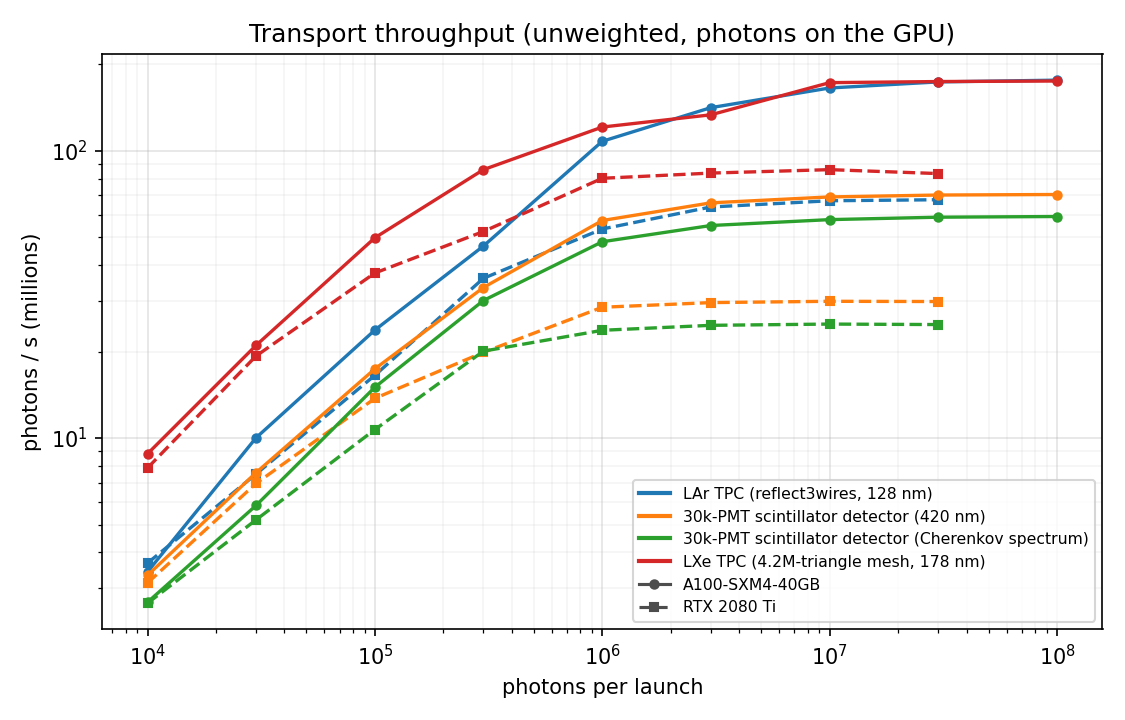
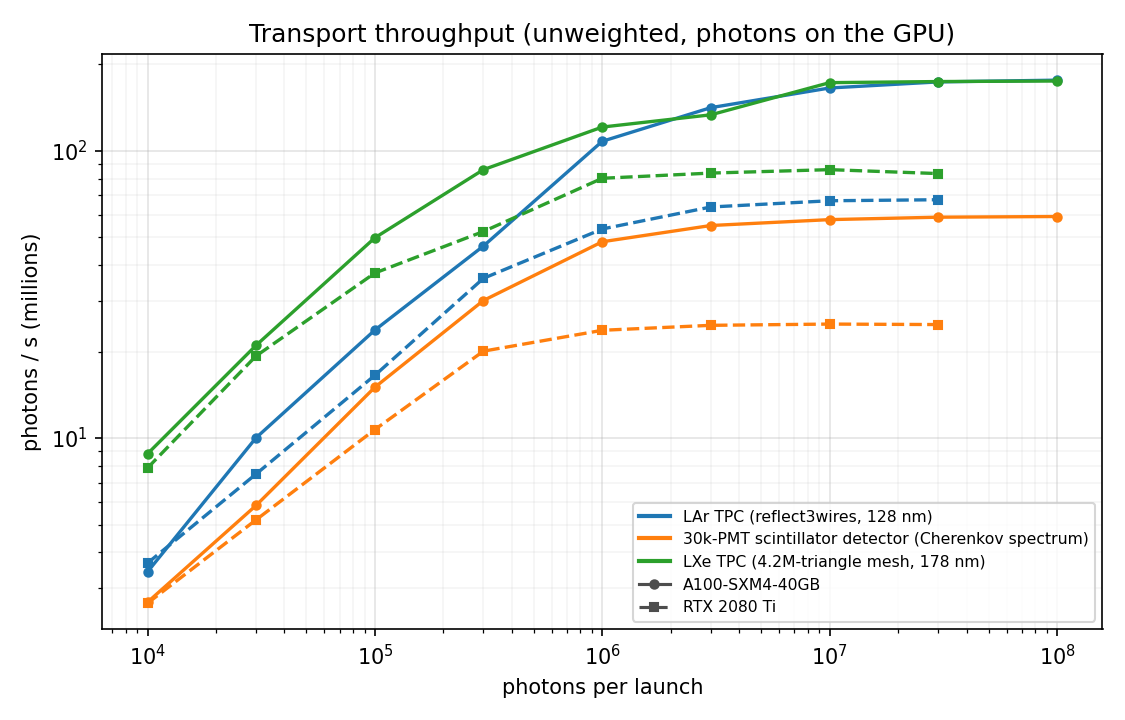
README: show the 30k-PMT detector with the Cherenkov spectrum only
Claude-Session: https://claude.ai/code/session_01Lzfk3nNvCZXBNX4CZLYBzi

diff --git a/README.md b/README.md
@@ -38,8 +38,8 @@ The transport engine alone, for three kinds of detector:
   ~17 steps per photon.
 - **30k-PMT scintillator detector:** 30,210 instanced 20-inch PMT meshes (18M
   triangles) around a liquid-scintillator volume, a point source at the
-  centre. At 420 nm a photon takes ~5 steps. With a Cherenkov spectrum it
-  takes ~6, because the scintillator absorbs the UV part and re-emits it.
+  centre, a Cherenkov spectrum (the scintillator absorbs its UV part and
+  re-emits it), ~6 steps per photon.
 - **LXe TPC:** a 4.2M-triangle CAD mesh (chroma-lxe), 178 nm, ~1.6 steps per
   photon.
 
@@ -51,7 +51,6 @@ Photons per second:
 | Detector | A100, 10^6 photons | A100, 10^8 | RTX 2080 Ti, 10^6 | RTX 2080 Ti, 3·10^7 |
 |---|---|---|---|---|
 | LAr TPC | 108M | 176M | 53M | 68M |
-| 30k-PMT detector, 420 nm | 57M | 71M | 29M | 30M |
 | 30k-PMT detector, Cherenkov spectrum | 48M | 59M | 24M | 25M |
 | LXe TPC | 121M | 175M | 80M | 83M |
 
